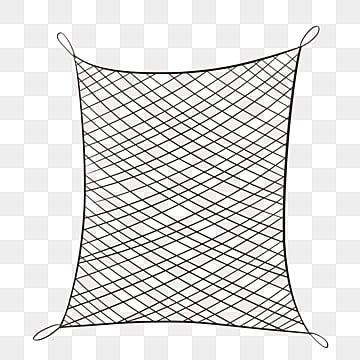
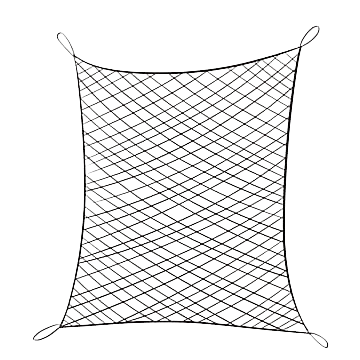
Added Net

Changed region(s): [[0.0917, 0.0611, 0.9167, 0.9778]]

diff --git a/web_src/games/JayHunt/jayhunt.js b/web_src/games/JayHunt/jayhunt.js
@@ -10,6 +10,9 @@ birdImage.src = 'Images/bluejay.gif';
 const background = new Image();
 background.src = 'Images/outdoor.jpg'; 
 
+const netImage = new Image();
+netImage.src = 'Images/net.png';
+
 let birdWidth = 100;  // 
 let birdHeight = 100;
 
@@ -148,7 +151,10 @@ function isDuckInCircle(x, y, xCenter, yCenter, radius1) {
     return distance <= radius1;
 }
 
+function drawnet(){
+    context.drawImage(netImage, mouse_x- birdWidth / 2, mouse_y- birdWidth / 2, birdWidth, birdHeight);
 
+}
 
 
 function capture(){
@@ -185,7 +191,7 @@ function clear() {
 function animate(){
     clear();
     document.addEventListener('click', capture);
-    
+    drawnet()
     fly();
     flybad();
     drawScoreboard();
